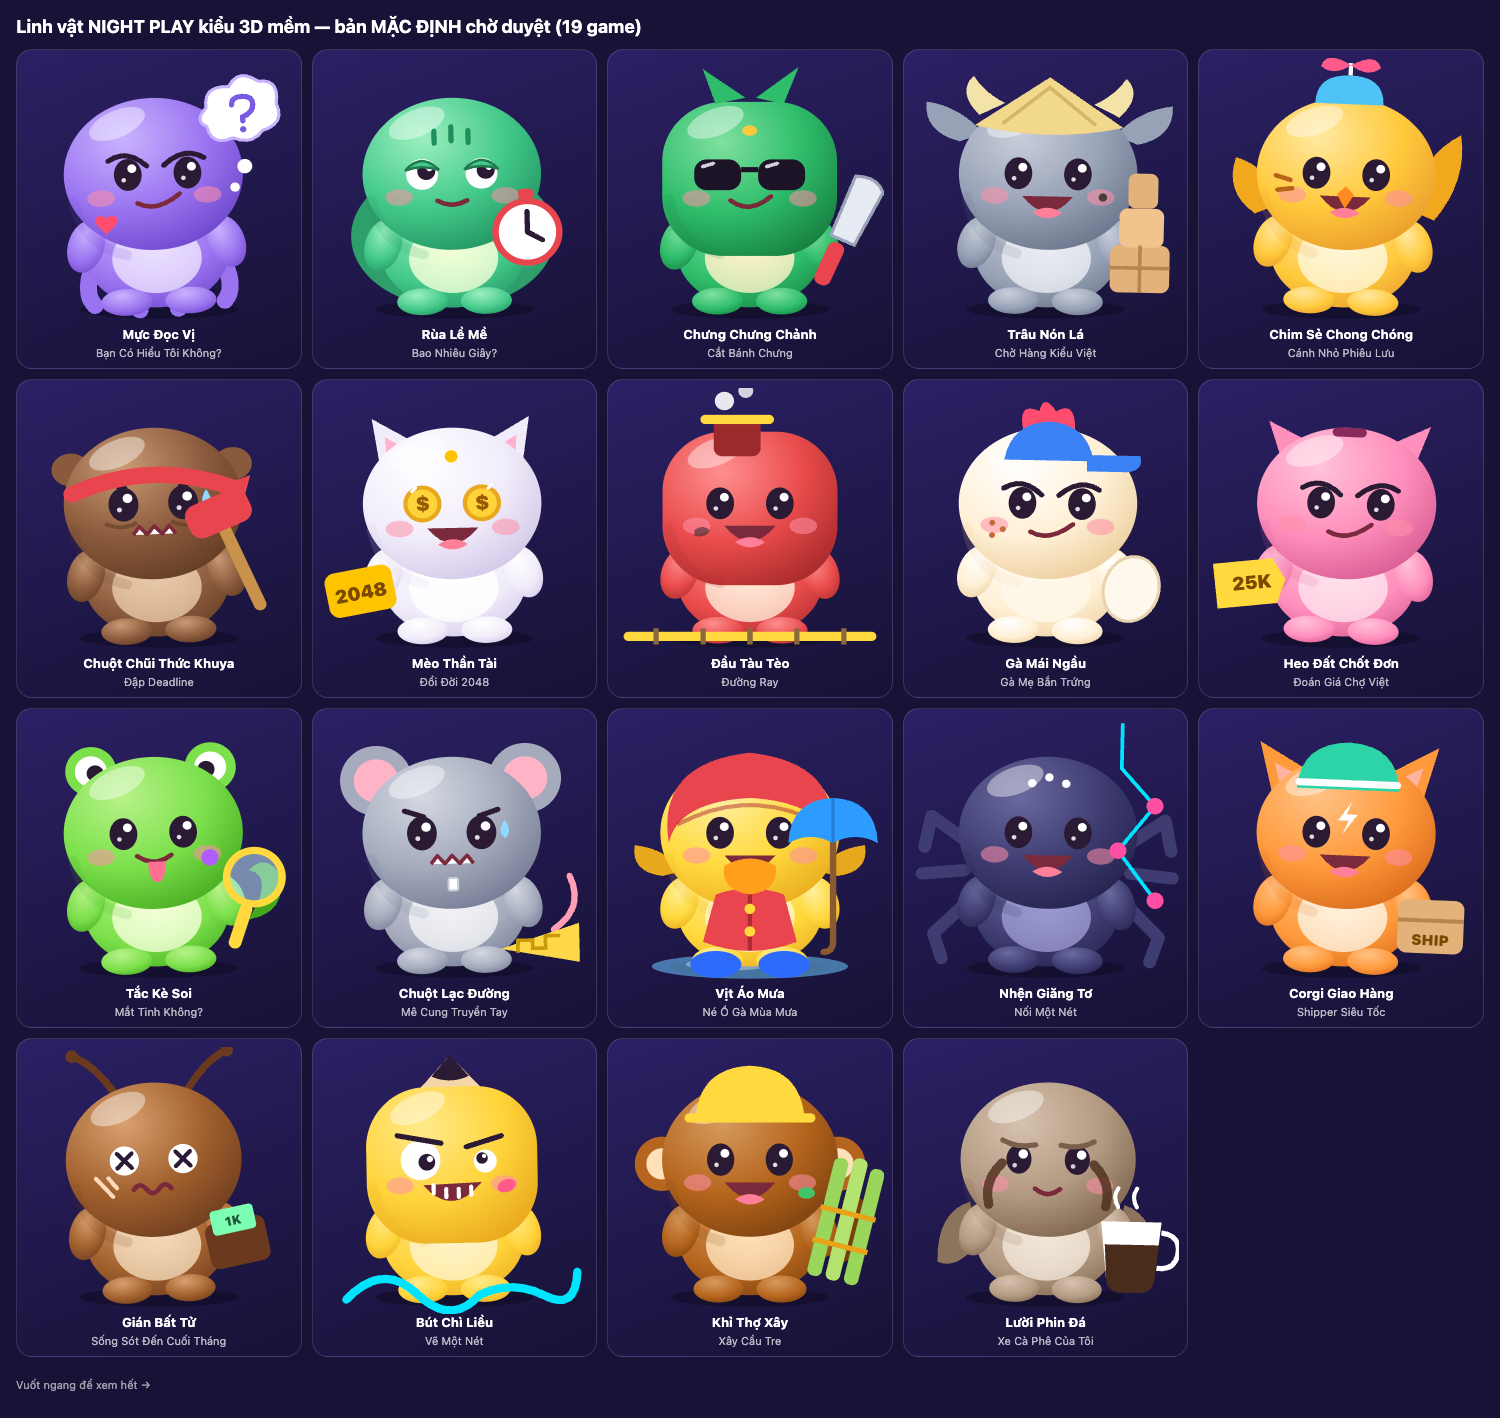
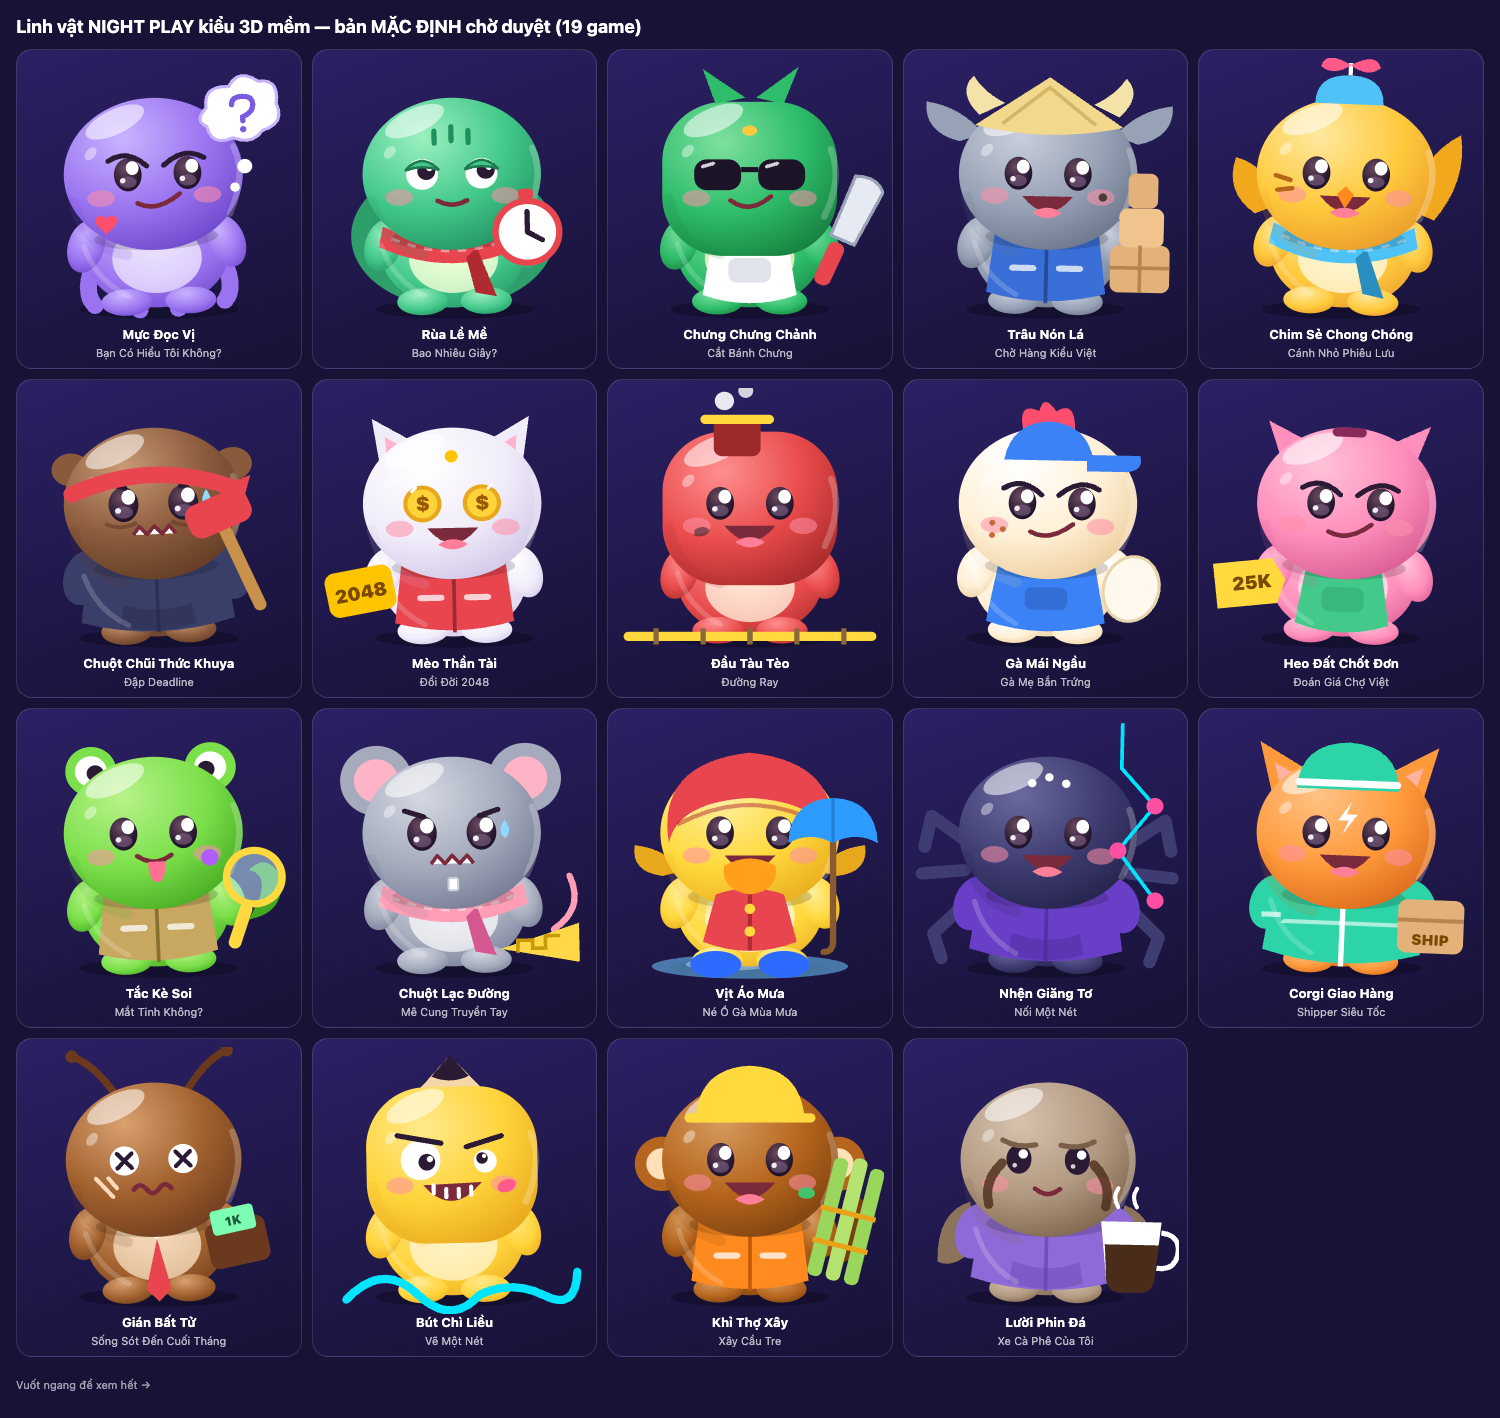
Night 3D: nâng chất lượng theo bộ mascot mẫu — mắt tròng gradient 2 chấm sáng, bóng đổ cằm, ánh sáng viền, vệt bóng; mỗi con mặc trang phục (yếm, áo khoác, hoodie, tạp dề, khăn, vest, nơ)

diff --git a/scripts/art/gen-night3d.js b/scripts/art/gen-night3d.js
@@ -4,7 +4,7 @@ const fs = require("fs"), path = require("path"), out = path.join(__dirname, "..
 const E = (cx, cy, rx, ry, f, x = "") => `<ellipse cx="${cx}" cy="${cy}" rx="${rx}" ry="${ry}" fill="${f}" ${x}/>`;
 const W = '#fff';
 /* mặt: kiểu biểu cảm */
-const eye = (x, y, r = 13) => `<ellipse cx="${x}" cy="${y}" rx="${r}" ry="${r + 2.5}" fill="#2A1A33"/><circle cx="${x + 4}" cy="${y - 6}" r="${r / 3.1}" fill="#fff"/><circle cx="${x - 4}" cy="${y + 5}" r="${r / 6}" fill="#fff" opacity=".85"/>`;
+const eye = (x, y, r = 13) => `<ellipse cx="${x}" cy="${y}" rx="${r}" ry="${r + 3}" fill="url(#e)"/><ellipse cx="${x}" cy="${y + r * 0.55}" rx="${r * 0.62}" ry="${r * 0.42}" fill="#8A6A8E" opacity=".55"/><ellipse cx="${x + r * 0.34}" cy="${y - r * 0.5}" rx="${r * 0.46}" ry="${r * 0.52}" fill="#fff"/><circle cx="${x - r * 0.38}" cy="${y + r * 0.42}" r="${r * 0.2}" fill="#fff" opacity=".9"/>`;
 const blush = (y) => E(78, y, 13, 8, '#FF8FA8', 'opacity=".55"') + E(178, y, 13, 8, '#FF8FA8', 'opacity=".55"');
 const mouthSmile = (y) => `<path d="M112 ${y}Q128 ${y + 16} 144 ${y}Q128 ${y + 4} 112 ${y}Z" fill="#7A2A3A"/><path d="M121 ${y + 8}Q128 ${y + 15} 135 ${y + 8}Q128 ${y + 5} 121 ${y + 8}Z" fill="#FF7F9A"/>`;
 const FACE = {
@@ -88,6 +88,14 @@ def("xay-cau-tre", { name: "Xây Cầu Tre", hero: "Khỉ Thợ Xây", mt: "vệ
 def("xe-ca-phe", { name: "Xe Cà Phê Của Tôi", hero: "Lười Phin Đá", mt: "hai sọc tối từ mắt", prop: "ly cà phê sữa đá", c: ["#D6C2AE", "#B39A82", "#7A6048", "#F1E6D8"], face: "sloth", head: 0,
   back: '<path d="M54 150Q22 160 24 208Q42 216 62 190Z" fill="#8C735C"/><path d="M202 150Q234 160 232 208Q214 216 194 190Z" fill="#8C735C"/>', ears: '', top: '', mark: '<path id="mark" d="M84 112Q66 130 72 152M172 112Q190 130 184 152" fill="none" stroke="#4A2C1A" stroke-width="9" stroke-linecap="round" opacity=".8"/>',
   sign: '<g id="sign"><path d="M180 166H238L232 222Q230 234 218 234H200Q188 234 186 222Z" fill="#fff"/><path d="M184 188H236L232 222Q230 234 218 234H200Q188 234 186 222Z" fill="#4A2C1A"/><path d="M238 176Q258 178 254 198Q250 212 234 210" fill="none" stroke="#fff" stroke-width="5"/><path d="M196 152q-6-10 0-18M214 152q-6-10 0-18" fill="none" stroke="#fff" stroke-width="4" stroke-linecap="round"/></g>' });
+const hoodie = (c, d) => `<path d="M64 164Q128 142 192 164L200 222Q128 244 56 222Z" fill="${c}"/><path d="M64 164Q128 142 192 164" fill="none" stroke="${d}" stroke-width="5" opacity=".5"/><path d="M128 156V234" stroke="${d}" stroke-width="3.5" opacity=".6"/><path d="M96 206Q128 218 160 206L164 226Q128 238 92 226Z" fill="${d}" opacity=".35"/><ellipse cx="60" cy="178" rx="19" ry="27" fill="${c}" transform="rotate(18 60 178)"/><ellipse cx="196" cy="178" rx="19" ry="27" fill="${c}" transform="rotate(-18 196 178)"/>`;
+const overalls = (c, d) => `<path d="M84 160H172L184 224Q128 242 72 224Z" fill="${c}"/><path d="M84 160L92 134M172 160L164 134" stroke="${c}" stroke-width="12" stroke-linecap="round"/><circle cx="92" cy="170" r="5" fill="#FFD93D"/><circle cx="164" cy="170" r="5" fill="#FFD93D"/><rect x="108" y="190" width="40" height="22" rx="7" fill="${d}" opacity=".35"/>`;
+const apron = (c, d) => `<path d="M96 150H160L172 226Q128 242 84 226Z" fill="${c}"/><path d="M96 150Q128 164 160 150" fill="none" stroke="${d}" stroke-width="5" opacity=".5"/><rect x="108" y="190" width="40" height="24" rx="8" fill="${d}" opacity=".3"/>`;
+const scarf = (c, d) => `<path d="M62 158Q128 190 194 158L198 178Q128 212 58 178Z" fill="${c}"/><path d="M150 180L168 228L148 224L140 190Z" fill="${d}"/><path d="M70 170Q128 196 186 170" fill="none" stroke="#fff" stroke-width="3" opacity=".45" stroke-dasharray="8 8"/>`;
+const vest = (c, d) => `<path d="M80 158Q128 176 176 158L184 224Q128 240 72 224Z" fill="${c}"/><path d="M128 170V234" stroke="${d}" stroke-width="3.5"/><path d="M96 200H116M140 200H160" stroke="#fff" stroke-width="6" stroke-linecap="round" opacity=".75"/>`;
+const bow = (c) => `<path d="M128 166L106 154V178ZM128 166L150 154V178Z" fill="${c}"/><circle cx="128" cy="166" r="6" fill="${c}"/><circle cx="128" cy="166" r="6" fill="#fff" opacity=".25"/>`;
+const jacket = (c, d, st) => `<path d="M62 162Q128 140 194 162L202 224Q128 246 54 224Z" fill="${c}"/><path d="M128 150V238" stroke="${st}" stroke-width="5"/><path d="M62 162Q128 140 194 162" fill="none" stroke="${st}" stroke-width="6" opacity=".7"/><path d="M70 196H186" stroke="${st}" stroke-width="4" opacity=".6"/><ellipse cx="60" cy="178" rx="19" ry="27" fill="${c}" transform="rotate(18 60 178)"/><ellipse cx="196" cy="178" rx="19" ry="27" fill="${c}" transform="rotate(-18 196 178)"/><path d="M52 190H70M186 190H204" stroke="${st}" stroke-width="5" opacity=".7"/>`;
+const OUT = { "ban-co-hieu-toi": bow("#FF4D6D"), "bao-nhieu-giay": scarf("#E8454F", "#B02A32"), "cat-banh-chung": apron("#fff", "#9AA3B8"), "cho-hang-kieu-viet": vest("#3A6FD8", "#244A9A"), "cozy-wings": scarf("#4FC3F7", "#2A8FC0"), "dap-deadline": hoodie("#3A3F6A", "#222645"), "doi-doi-2048": vest("#E8454F", "#9C2A33") + bow("#FFC400"), "duong-ray": "", "ga-me-ban-trung": overalls("#3B82F6", "#244A9A"), "gia-cho-viet": apron("#43C98A", "#1F8F5E"), "mat-tinh-khong": vest("#C8A860", "#8A7030"), "me-cung-truyen-tay": scarf("#FF9EB5", "#D5578F"), "ne-o-ga": "", "noi-mot-net": hoodie("#6A3FC8", "#43268A"), "shipper-sieu-toc": jacket("#2DD4A8", "#1F8F72", "#fff"), "song-sot-cuoi-thang": `<path d="M100 164L128 184L156 164L150 150H106Z" fill="#fff"/><path d="M128 184L116 232L128 244L140 232Z" fill="#E8454F"/>`, "ve-mot-net": bow("#E8454F"), "xay-cau-tre": vest("#FF8A1F", "#C25A0A"), "xe-ca-phe": hoodie("#8E6AD8", "#5A3FA8") };
 const ids = Object.keys(G);
 function svg(id, d) {
   const [c0, c1, c2, cb] = d.c, hy = d.square ? 8 : 0;
@@ -100,6 +108,7 @@ function svg(id, d) {
 :root.np-playing .npa{animation:none}@media (prefers-reduced-motion:reduce){.npa{animation:none}}</style>
 <defs><radialGradient id="h" cx=".34" cy=".26" r=".85"><stop offset="0" stop-color="${c0}"/><stop offset=".55" stop-color="${c1}"/><stop offset="1" stop-color="${c2}"/></radialGradient>
 <radialGradient id="b" cx=".4" cy=".25" r=".9"><stop offset="0" stop-color="${c0}"/><stop offset=".6" stop-color="${c1}"/><stop offset="1" stop-color="${c2}"/></radialGradient>
+<radialGradient id="e" cx=".4" cy=".3" r=".9"><stop offset="0" stop-color="#6A4A5E"/><stop offset=".6" stop-color="#2A1A33"/><stop offset="1" stop-color="#140B1C"/></radialGradient>
 <radialGradient id="v" cx=".5" cy=".35" r=".7"><stop offset="0" stop-color="${cb}"/><stop offset="1" stop-color="${cb}" stop-opacity=".78"/></radialGradient></defs>
 <g id="shadow"><ellipse cx="128" cy="240" rx="76" ry="9" fill="var(--sh)" opacity=".5"/></g>
 <g id="all" class="npa npa-breathe"><g id="pose" transform="rotate(${((ids.indexOf(id) % 5) - 2) * 1.2} 128 230)">
@@ -107,7 +116,7 @@ ${d.back}
 <g id="body"><ellipse cx="128" cy="184" rx="68" ry="54" fill="url(#b)"/><ellipse cx="128" cy="190" rx="42" ry="34" fill="url(#v)"/>
 <ellipse cx="62" cy="176" rx="17" ry="26" fill="url(#b)" transform="rotate(18 62 176)"/><ellipse cx="194" cy="176" rx="17" ry="26" fill="url(#b)" transform="rotate(-18 194 176)"/>
 <ellipse cx="98" cy="232" rx="24" ry="13" fill="url(#b)"/><ellipse cx="158" cy="232" rx="24" ry="13" fill="url(#b)"/>
-${d.ears}${headShape}<ellipse cx="96" cy="58" rx="28" ry="13" fill="#fff" opacity=".42" transform="rotate(-22 96 58)"/><path d="M52 132Q60 176 100 186" fill="none" stroke="${c2}" stroke-width="10" opacity=".14" stroke-linecap="round"/></g>
+${OUT[id] || ""}${d.ears}<ellipse cx="128" cy="170" rx="58" ry="12" fill="#000" opacity=".16"/>${headShape}<ellipse cx="94" cy="56" rx="30" ry="12" fill="#fff" opacity=".55" transform="rotate(-24 94 56)"/><ellipse cx="70" cy="86" rx="7" ry="4.5" fill="#fff" opacity=".4" transform="rotate(-50 70 86)"/><path d="M204 84Q216 112 198 150" fill="none" stroke="#fff" stroke-width="6" opacity=".22" stroke-linecap="round"/><path d="M60 176Q70 210 100 226" fill="none" stroke="#fff" stroke-width="5" opacity=".18" stroke-linecap="round"/><path d="M52 132Q60 176 100 186" fill="none" stroke="${c2}" stroke-width="10" opacity=".14" stroke-linecap="round"/></g>
 <g id="face"><g id="eyes">${FACE[d.face](108 - 0)}</g>${d.mark}</g>
 ${d.top}${d.sign}
 <g id="acc-badge" class="acc acc-badge"></g><g id="acc-group" class="acc acc-group"></g><g id="acc-night" class="acc acc-night"></g><g id="acc-star" class="acc acc-star"></g><g id="fx-night" class="fx fx-night"></g><g id="fx-star" class="fx fx-star"></g>
